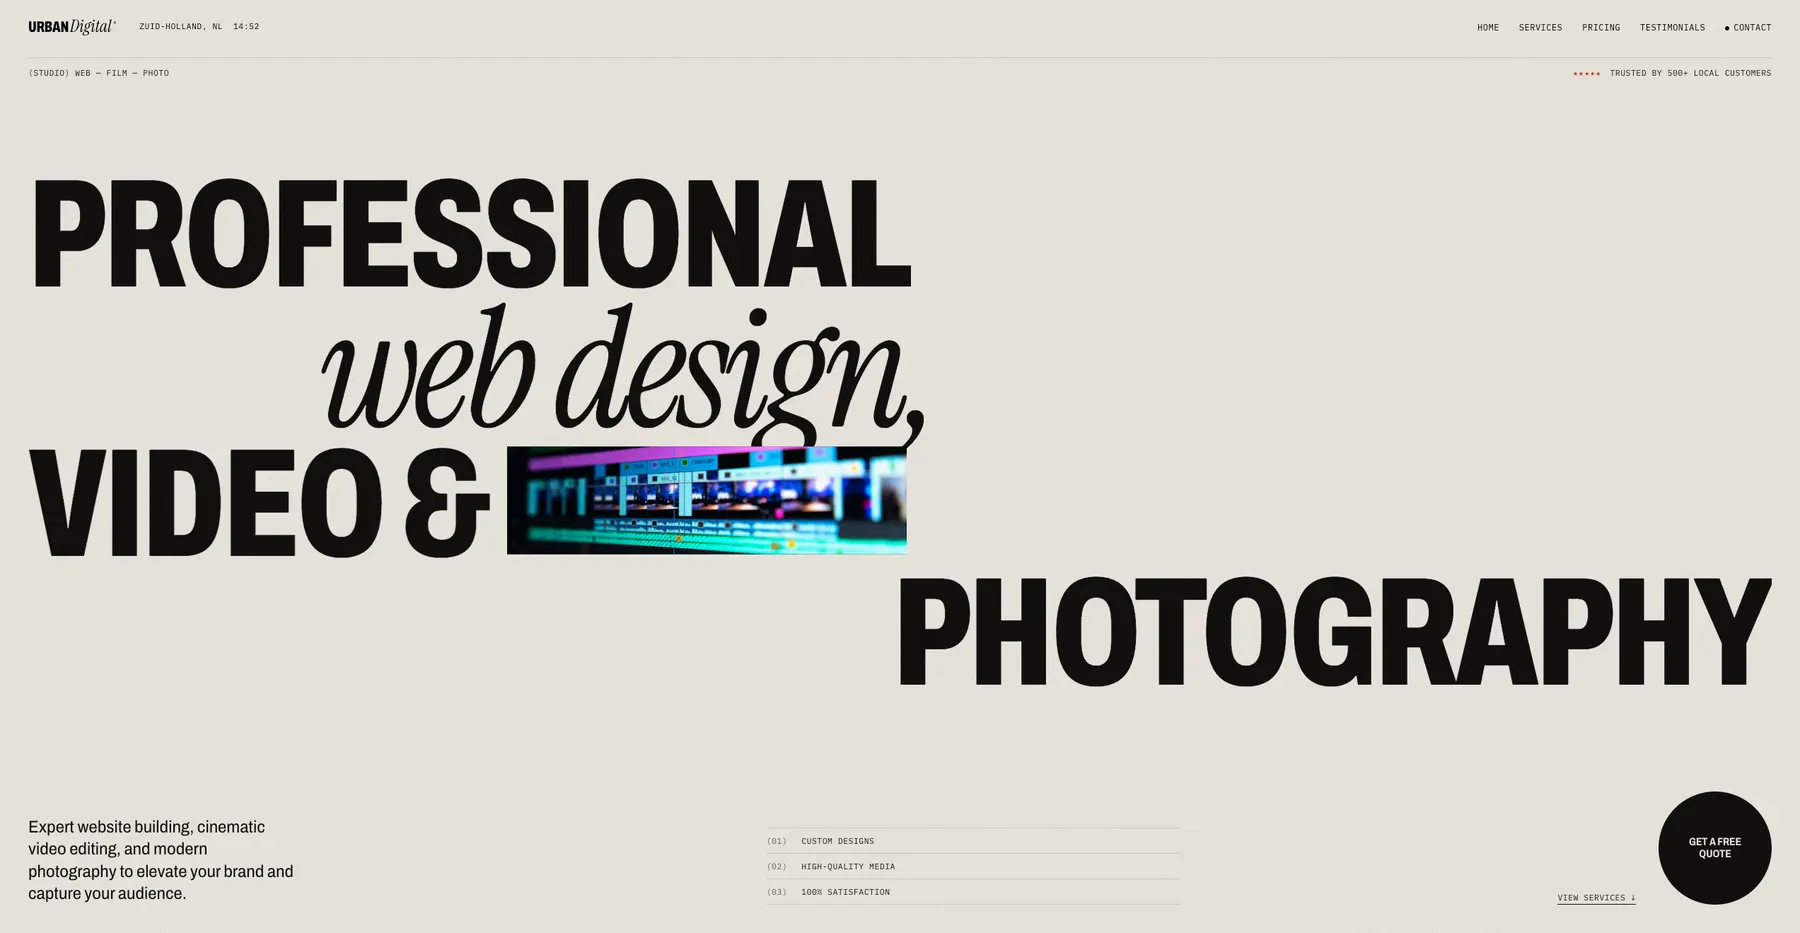
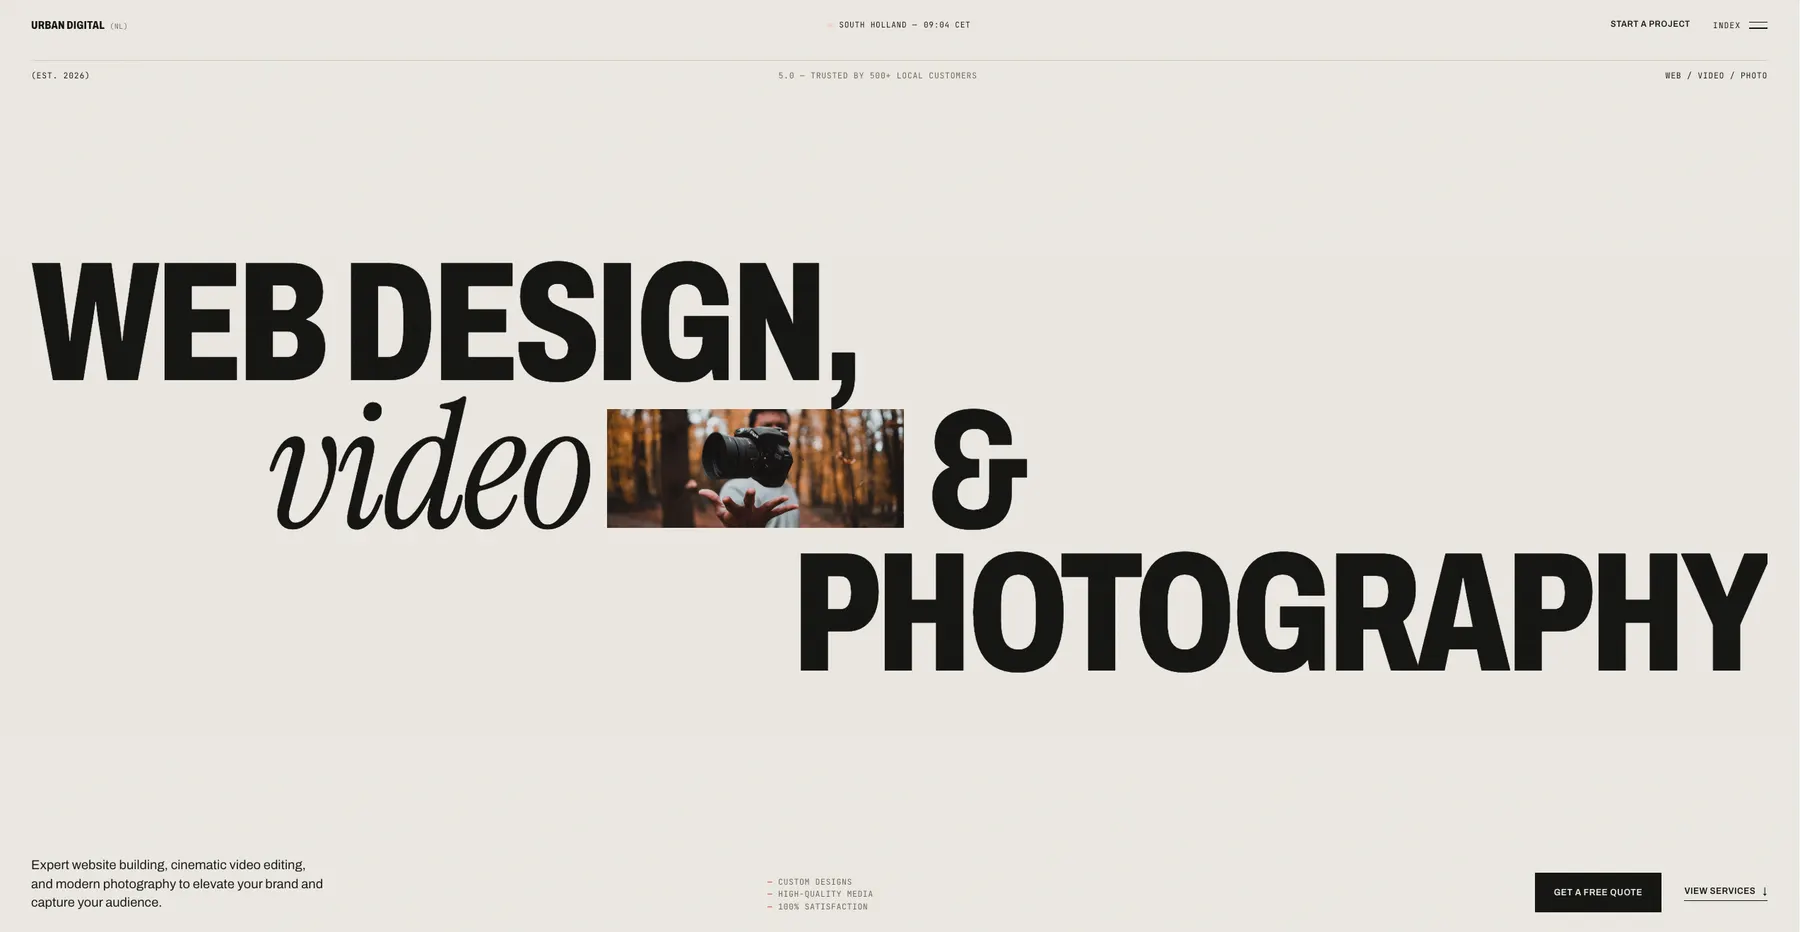
urbandigital

diff --git a/designs_website/src/data/content.js b/designs_website/src/data/content.js
@@ -114,7 +114,7 @@ export const projects = [
     kind: 'Agency website',
     year: '2025',
     image: '/images/web/work-5.webp',
-    alt: 'Dark agency website hero for web design, video and photography services',
+    alt: 'Light agency website hero with the headline WEB DESIGN, video & PHOTOGRAPHY and a photo of a camera tossed in the air',
     description:
       'A conversion-focused site for a small studio offering web design, video and photography — clear services, pricing and trust signals.',
     role: 'UI design, front-end development',
